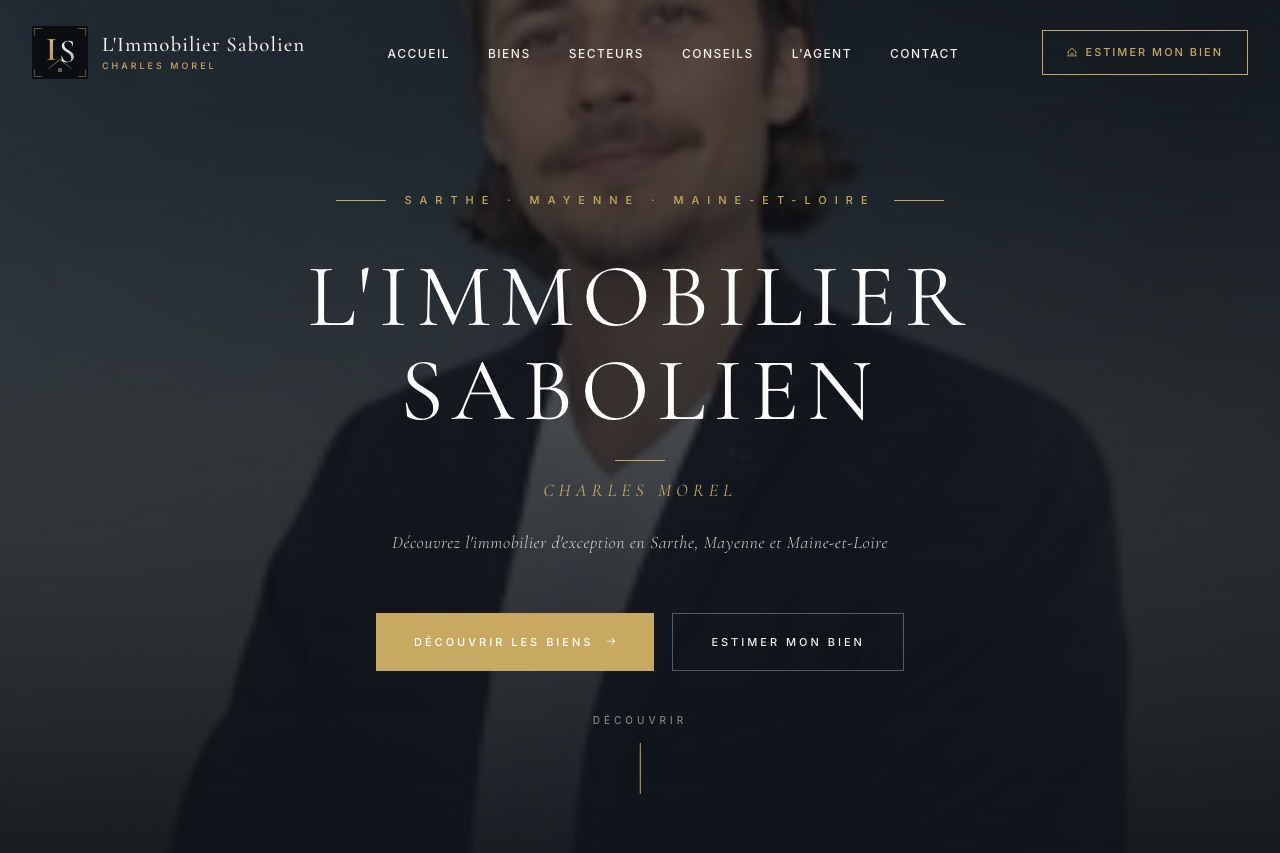
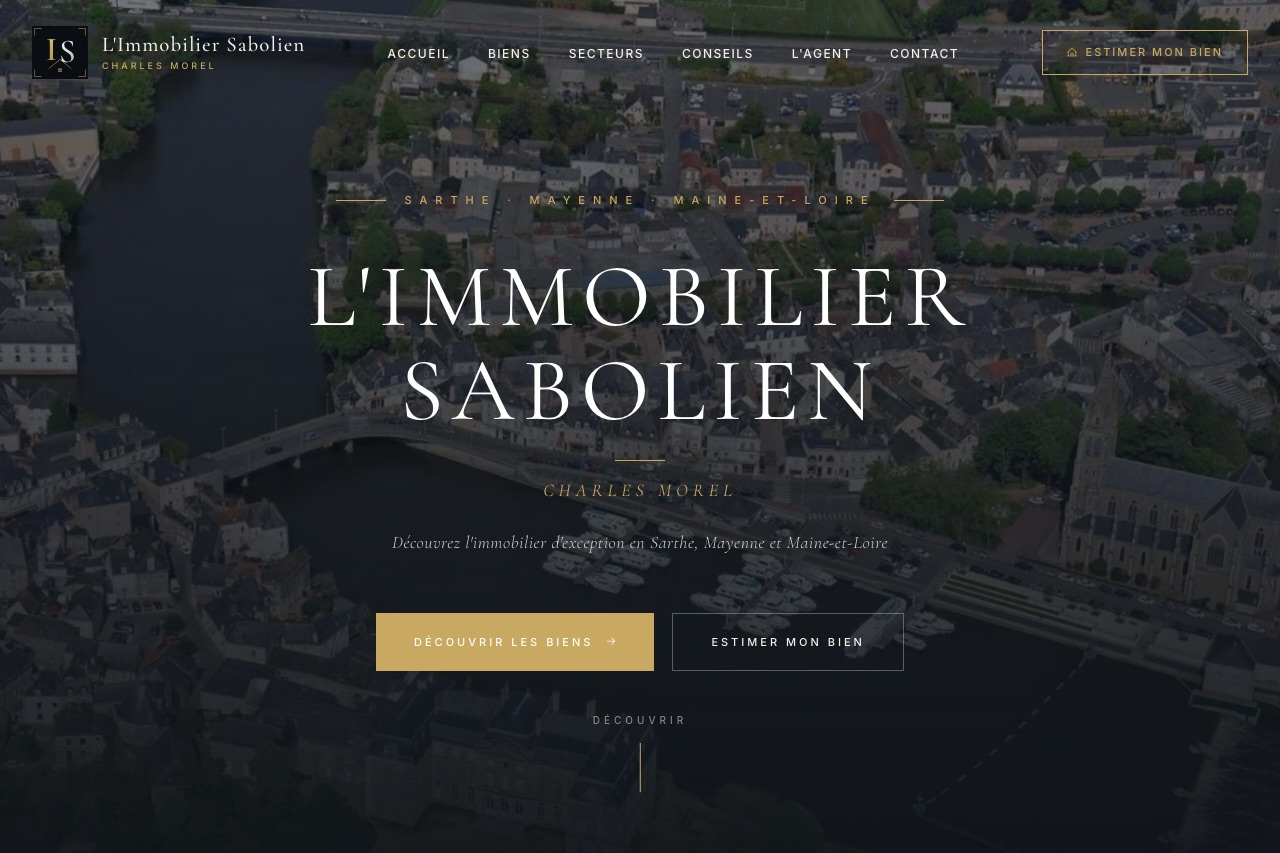
Réalisation Sablé (vue ville) + fix responsive footer (débordement mobile/tablette) + fix message succès masqué

diff --git a/styles.css b/styles.css
@@ -67,6 +67,7 @@ body {
   letter-spacing: -0.01em;
   -webkit-font-smoothing: antialiased;
   text-rendering: optimizeLegibility;
+  overflow-x: hidden;
 }
 
 img { max-width: 100%; display: block; height: auto; }
@@ -692,6 +693,9 @@ h1, h2, h3, h4 { font-weight: 600; line-height: 1.05; letter-spacing: -0.035em; 
   flex-direction: column;
   align-items: flex-start;
   gap: 10px;
+}
+.form-success[hidden] { display: none; }
+.form-success {
   font-size: 1.25rem;
   line-height: 1.4;
   letter-spacing: -0.02em;
@@ -789,7 +793,7 @@ h1, h2, h3, h4 { font-weight: 600; line-height: 1.05; letter-spacing: -0.035em; 
 .footer-brand p { font-size: 0.95rem; max-width: 280px; line-height: 1.5; }
 .footer-col h4 { color: var(--white); font-size: 0.82rem; font-weight: 600; letter-spacing: 0; margin-bottom: 18px; }
 .footer-col ul { display: grid; gap: 12px; }
-.footer-col a { font-size: 0.95rem; transition: color 0.25s; }
+.footer-col a { font-size: 0.95rem; transition: color 0.25s; overflow-wrap: anywhere; }
 .footer-col a:hover { color: var(--white); }
 .footer-bottom {
   display: flex; justify-content: space-between; align-items: center; flex-wrap: wrap; gap: 14px;
@@ -945,6 +949,7 @@ h1, h2, h3, h4 { font-weight: 600; line-height: 1.05; letter-spacing: -0.035em; 
   .why-grid { grid-template-columns: repeat(2, 1fr); }
   .steps { grid-template-columns: repeat(2, 1fr); gap: 44px; }
   .contact-grid { grid-template-columns: 1fr; gap: 48px; }
+  .footer-inner { grid-template-columns: 1.5fr 1fr; gap: 40px; }
 }
 
 @media (max-width: 720px) {
@@ -1008,6 +1013,8 @@ h1, h2, h3, h4 { font-weight: 600; line-height: 1.05; letter-spacing: -0.035em; 
 @media (max-width: 560px) {
   .cookie { flex-direction: column; align-items: stretch; text-align: center; gap: 12px; padding: 18px; }
   .cookie-ok { width: 100%; }
+  .footer-inner { grid-template-columns: 1fr; gap: 30px; }
+  .footer-bottom { justify-content: center; text-align: center; }
 }
 
 /* À propos — responsive */
